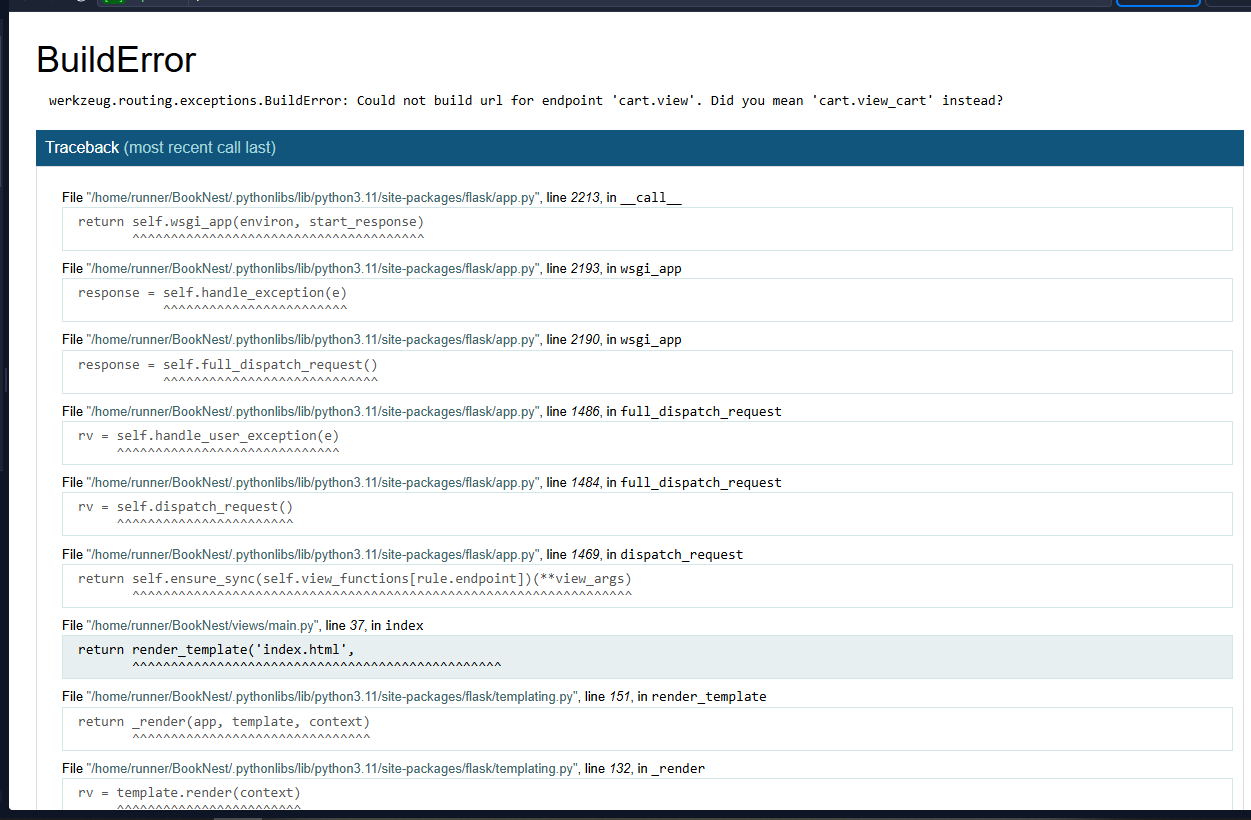
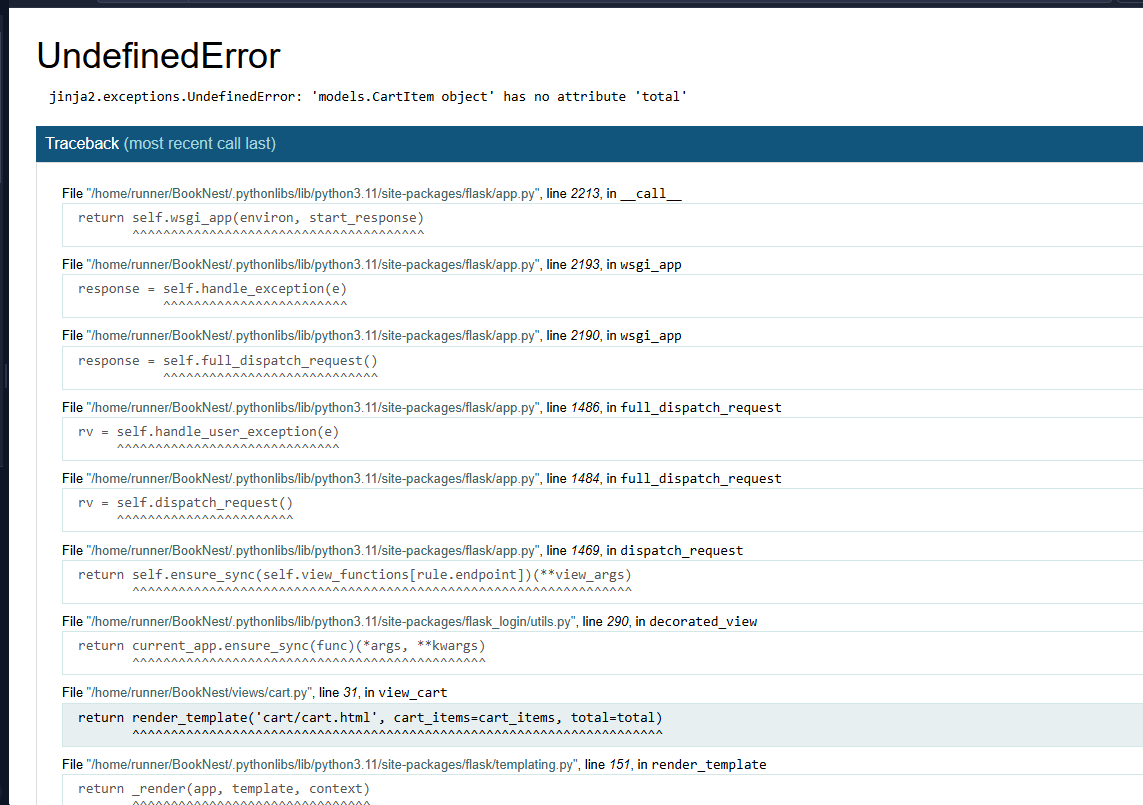
Agent query: Can you verify if adding items to cart works and if the cart total is calculated correctly?

diff --git a/views/cart.py b/views/cart.py
@@ -23,11 +23,11 @@ def get_cart_count():
         current_app.logger.error(f'Error getting cart count: {str(e)}')
         return jsonify({'success': False, 'error': str(e)}), 500
 
-@cart.route('/view')
+@cart.route('/view_cart')
 @login_required
 def view_cart():
     cart_items = CartItem.query.filter_by(user_id=current_user.id).all()
-    total = sum(item.book.price * item.quantity for item in cart_items)
+    total = sum(item.total for item in cart_items)
     return render_template('cart/cart.html', cart_items=cart_items, total=total)
 
 @cart.route('/add', methods=['POST'])
@@ -97,5 +97,3 @@ def update_cart():
         db.session.rollback()
         current_app.logger.error(f'Error updating cart: {str(e)}')
         return jsonify({'success': False, 'error': 'Failed to update cart'}), 500
-
-# Rest of the file remains unchanged...

diff --git a/models.py b/models.py
@@ -117,6 +117,10 @@ class CartItem(db.Model):
         db.UniqueConstraint('user_id', 'book_id', name='uq_user_book_cart'),
     )
 
+    @property
+    def total(self):
+        return self.book.price * self.quantity
+
 class UserActivity(db.Model):
     __tablename__ = 'user_activities'
     id = db.Column(db.Integer, primary_key=True)
